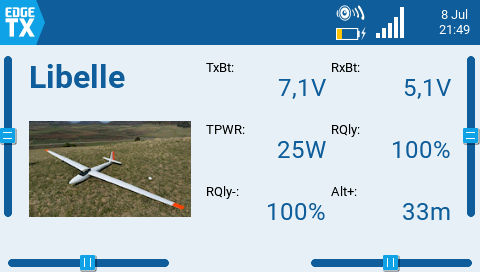
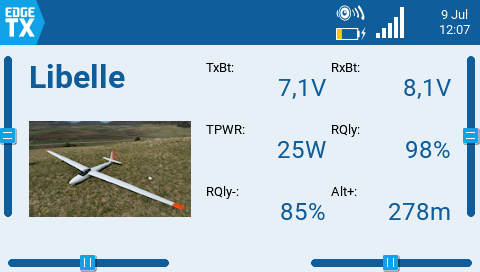
update readme and add versioning

diff --git a/WIDGETS/Dashboard/README.md b/WIDGETS/Dashboard/README.md
@@ -1,5 +1,10 @@
+## Dashboard with 6 values in 3 rows
 ![Dashboard](dashboard.png)
 
+## Dashboard with 7 values in 4 rows
 ![Dashboard with timer](dashboard2.png)
+
+## Dashboard options
+The dashboard creates new rows for values automatically. And it stops when the next value option is not configured.
 
 ![Widget options](options.png)
